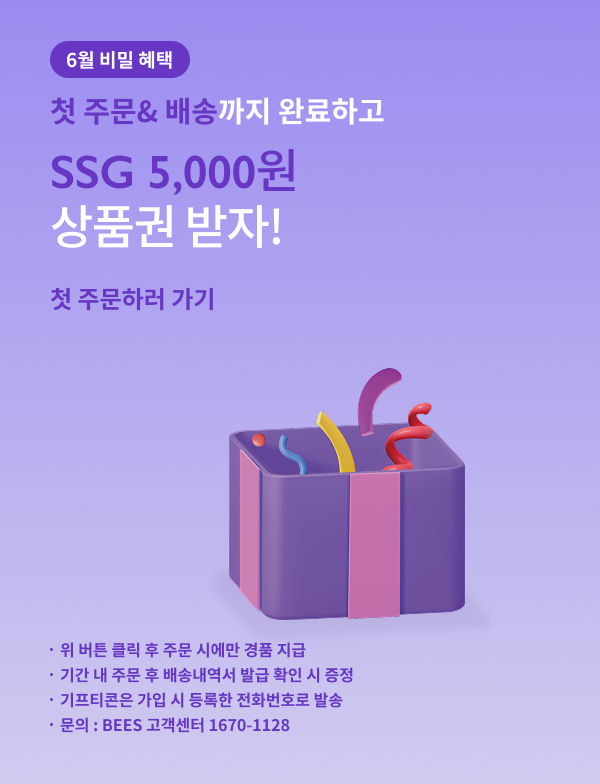
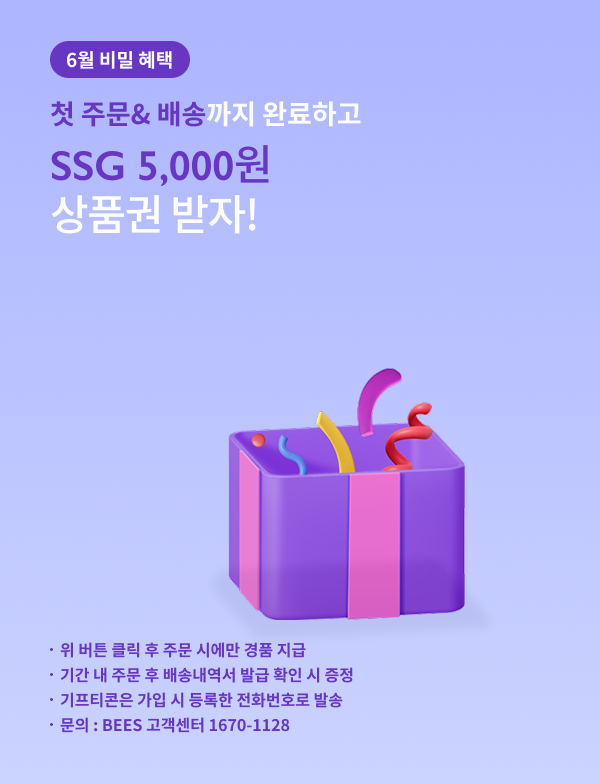
update7

diff --git a/carousel_banner_1.html b/carousel_banner_1.html
@@ -9,29 +9,9 @@
 <body>
     <div class="wrap" style="margin: 0 auto; max-width: 600px; width: 100%; position: fixed; bottom:0; left:0; right:0">
         <div class="carousel-item">
-            <!-- <div class="tit1">6월 비밀 혜택</div>
-            <div class="tit2">첫 주문& 배송까지 완료하고</div>
-            <div class="tit3">
-                SSG 5,000원<br/>
-                상품권 받아가세요!
-            </div>
-            <div class="link-arr">
-                첫 주문하러 가기
-                <svg width="24" height="25" viewBox="0 0 24 25" fill="none" xmlns="http://www.w3.org/2000/svg">
-                    <path d="M7.75 4L16.25 12.5L7.75 21" stroke="white" stroke-width="2.5"/>
-                </svg>    
-            </div>
-
-            <ul>
-                <li>위 버튼 클릭 후 주문 시에만 경품 지급</li>
-                <li>위 버튼 클릭 후 주문 시에만 경품 지급</li>
-                <li>위 버튼 클릭 후 주문 시에만 경품 지급</li>
-                <li>위 버튼 클릭 후 주문 시에만 경품 지급</li>
-            </ul> -->
             <img src="./img/banner1-1.png" alt="text">
             <img class="boxTop" src="./img/banner1-4.png" alt="text">
             <img class="move" src="./img/banner1-2.png" alt="text">
-            <img class="move-obj1" src="./img/banner1-5.png" alt="text">
             <img class="move-obj2" src="./img/banner1-7.png" alt="text">
             <img class="move-obj3" src="./img/banner1-6.png" alt="text">
             <img src="./img/banner1-3.png" alt="text">

diff --git a/carousel_banner_2.html b/carousel_banner_2.html
@@ -7,11 +7,14 @@
     <link rel="stylesheet" href="./css/style.css">
 </head>
 <body>
-    <div class="wrap" style="margin: 0 auto; max-width: 600px; width: 100%; position: fixed; bottom:0; left:0; right:0;">
+    <div class="wrap" style="margin: 0 auto; max-width: 600px; width: 100%; position: fixed; bottom:0; left:0; right:0">
         <div class="carousel-item">
-            <img src="./img/img4.png" alt="text">
-            <img class="move" src="./img/img5.png" alt="text">
-            <img src="./img/img6.png" alt="text">
+            <img src="./img/banner2-1.png" alt="text">
+            <img class="boxTop" src="./img/banner1-4.png" alt="text">
+            <img class="move" src="./img/banner2-2.png" alt="text">
+            <img class="move-obj2" src="./img/banner1-7.png" alt="text">
+            <img class="move-obj3" src="./img/banner1-6.png" alt="text">
+            <img src="./img/banner1-3.png" alt="text">
         </div>
     </div>
 </body>

diff --git a/carousel_banner_3.html b/carousel_banner_3.html
@@ -7,11 +7,14 @@
     <link rel="stylesheet" href="./css/style.css">
 </head>
 <body>
-    <div class="wrap" style="margin: 0 auto; max-width: 600px; width: 100%; position: fixed; bottom:0; left:0; right:0;">
+    <div class="wrap" style="margin: 0 auto; max-width: 600px; width: 100%; position: fixed; bottom:0; left:0; right:0">
         <div class="carousel-item">
-            <img src="./img/img7.png" alt="text">
-            <img class="move" src="./img/img8.png" alt="text">
-            <img src="./img/img9.png" alt="text">
+            <img src="./img/banner3-1.png" alt="text">
+            <img class="boxTop" src="./img/banner1-4.png" alt="text">
+            <img class="move" src="./img/banner2-2.png" alt="text">
+            <img class="move-obj2" src="./img/banner1-7.png" alt="text">
+            <img class="move-obj3" src="./img/banner1-6.png" alt="text">
+            <img src="./img/banner1-3.png" alt="text">
         </div>
     </div>
 </body>
